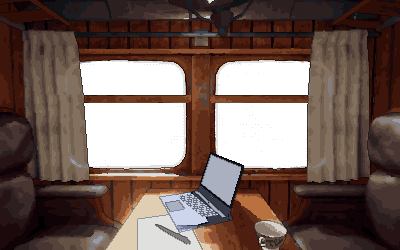
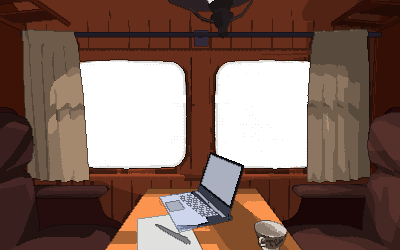
雪国线 pixel ride, clean like common pixel art: walls, seats, curtains and table are one flat colour each, shaded in a few steps by the light of a flat-colour render (texture dirt, dusty patterns and the leather's greasy sheen gone); plank seams kept as clean lines; the grey smudge on the centre post p
Claude-Session: https://claude.ai/code/session_01ScX6WKwjvGxQ2unMJchHBc

diff --git a/tools/pixelate.py b/tools/pixelate.py
@@ -11,14 +11,16 @@ lo = lambda f: Image.open(f).convert("RGBA").resize((W, H), Image.BOX)
 sun, sh = lo(f"{A}/cabin-day.webp"), lo(f"{A}/cabin-day-shade.webp")
 wood = Image.open(f"{A}/3d/snow_forest.jpg").convert("RGB"); wood = wood.resize((int(wood.width * 190 / wood.height), 190), Image.BOX)
 code = np.asarray(Image.open(os.path.join(R, "tools", "cabin-id.png")).convert("RGB")).astype(np.int32) @ [65536, 256, 1]
+_g = code == 0                                                  # the window's middle rail goes: the view stays whole
+BARS = ndimage.binary_closing(_g, structure=np.ones((15, 1))) & ~_g & (code == 0x111180); code[BARS] = 0
 _lap = code == 0x881180; code[ndimage.binary_fill_holes(_lap) & ~_lap] = 0x991180   # the touchpad shows as a hole in the id render
 glass = code == 0
 # how much each part is smoothed (in pixels): props and table flat and clean, the panelling keeps its grain
 WALL, TABLE = 0x111180, 0x110080
 LAPTOP, PAD, CUP, PAPER, PEN = 0x881180, 0x991180, 0x2280, 0x112280, 0x222280
 SEATS = (0x1180, 0xaa0080, 0x770080, 0xdd0080)
-sig = {TABLE: .7, LAPTOP: 0, PAD: 0, CUP: 0, PAPER: .6, PEN: 0, WALL: 0.0}
-DEFAULT = 1.1                                                    # curtains, seats, ceiling
+sig = {TABLE: 1.0, LAPTOP: 0, PAD: 0, CUP: 0, PAPER: .6, PEN: 0, WALL: 2.2}
+DEFAULT = 2.4                                                     # curtains, seats, ceiling: smooth, no dust                                                    # curtains, seats, ceiling
 
 def grade(a):
     a = np.where(a > .72, .72 + (a - .72) * .45, a)              # tame the blown-out sun on the table
@@ -106,8 +108,43 @@ yy_, xx_ = np.mgrid[0:H, 0:W]; st = (np.stack([xx_ + .5 - H0[0], yy_ + .5 - H0[1
 s_, t_ = st[..., 0], st[..., 1]
 kb = (code == LAPTOP) & (s_ > .07) & (s_ < .93) & (t_ > .12) & (t_ < .58)
 key = kb & ((s_ * 15) % 1 < .62) & (((t_ - .12) / .46 * 6) % 1 < .66)
+CURTAINS = (0x551180, 0x661180, 0x660080, 0xbb0080)
+def kposter(g, q, m, k, sat_only=False):
+    X = g[m].reshape(-1, 3); fit = X
+    if sat_only:   # cluster on the coloured wood only, so grey smudges can't keep a colour of their own
+        s = (X.max(1) - X.min(1)) / np.maximum(X.max(1), 1e-3); fit = X[s > .35] if (s > .35).sum() > k * 20 else X
+    C = np.array(sorted(fit[np.random.RandomState(2).choice(len(fit), k, replace=False)].tolist(), key=sum))
+    for _ in range(25):
+        lab = ((fit[:, None] - C[None]) ** 2).sum(-1).argmin(1); C = np.array([fit[lab == i].mean(0) if (lab == i).any() else C[i] for i in range(k)])
+    lab = ((X[:, None] - C[None]) ** 2).sum(-1).argmin(1); q[m] = (C[lab] * 255).astype(np.uint8)
+SEAMS = None
+LEVELS = np.array([.6, .78, 1.0, 1.25, 1.5])
+LIGHT_SUN = np.asarray(Image.open(os.path.join(R, "tools", "cabin-light.png")).convert("L")).astype(np.float32) / 255
+_sunlit = (f32(sun) @ [.3, .59, .11]) > (f32(sh) @ [.3, .59, .11]) * 1.25 + .04
+LIGHT_SHADE = LIGHT_SUN.copy()
+for _v in np.unique(code):                                       # without the sun: sunlit pixels fall back to the part's own shade level
+    _m = code == _v; _s = _m & ~_sunlit
+    if _s.sum() > 10: LIGHT_SHADE[_m & _sunlit] = np.median(LIGHT_SUN[_s])
+def band(g, q, m, v):
+    """one flat colour per part, shaded in a few clean steps by the light only (the texture's dirt is low-passed away)"""
+    if m.sum() < 30: return
+    X = g[m]; s = (X.max(1) - X.min(1)) / np.maximum(X.max(1), 1e-3)
+    base_c = np.median((X[s > .3] if v == WALL and (s > .3).sum() > 50 else X)[~_sunlit[m][(s > .3) if v == WALL and (s > .3).sum() > 50 else slice(None)]] if False else (X[s > .3] if v == WALL and (s > .3).sum() > 50 else X), 0)
+    if v == WALL: base_c = base_c * 1.25
+    if v in SEATS: base_c = base_c * np.array([1.08, 1.0, .9])   # wood colour, never the grey smudge
+    L = LIGHT_SUN if lit else LIGHT_SHADE                        # shading from a flat-colour render: light and form only, no texture dirt
+    r = L[m] / max(np.median(LIGHT_SHADE[m]), 1e-3); r = LEVELS[np.abs(r[:, None] - LEVELS[None]).argmin(1)]
+    q[m] = (np.clip(base_c[None] * r[:, None], 0, 1) * 255).astype(np.uint8)
 def px(g):
+    global SEAMS
     q = poster(g, quant(g))
+    big = ~glass & ~np.isin(code, PROPS + (PAPER, PAD))
+    for v in np.unique(code[big]): band(g, q, code == v, v)
+    wall = code == WALL
+    if SEAMS is None:   # the plank seams: thin dark lines in the unsmoothed still, kept as one clean wood-dark line
+        l = f32(sh) @ [.3, .59, .11]; d = l - ndimage.uniform_filter(l, 7)
+        SEAMS = wall & (d < -.035); SEAMS = ndimage.binary_opening(SEAMS, structure=np.ones((5, 1)))
+    q[SEAMS] = (q[SEAMS].astype(np.float32) * .62).astype(np.uint8)
     q[kb] = (104, 110, 128); q[key] = (196, 202, 218); q[code == PAD] = (170, 176, 192)
     q = despeck(q, ~glass & ~np.isin(code, PROPS)).astype(np.float32)
     q = despeck(q.astype(np.uint8), np.isin(code, PROPS), n=2).astype(np.float32)
@@ -118,8 +155,8 @@ def px(g):
 yy, xx = np.mgrid[0:H, 0:W]
 a = np.asarray(sun)[..., 3]                                          # the snow on the glass is kept from the render
 frost = (a > 70) & (a <= 110) & (xx % 3 == 0) & (yy % 3 == 1)
-alpha = np.where(glass, np.where(a > 110, 255, np.where(frost, 200, 0)), 255).astype(np.uint8)
-for g, name in [(g_sun, "cabin-day-px.png"), (g_sh, "cabin-day-shade-px.png")]:
+alpha = np.where(glass, np.where(BARS, np.where(frost, 200, 0), np.where(a > 110, 255, np.where(frost, 200, 0))), 255).astype(np.uint8)
+for g, name, lit in [(g_sun, "cabin-day-px.png", True), (g_sh, "cabin-day-shade-px.png", False)]:
     Image.fromarray(np.dstack([px(g), alpha]), "RGBA").save(f"{A}/{name}", optimize=True)
 qw = np.asarray(Image.fromarray((g_wood * 255).astype(np.uint8)).quantize(palette=pal, dither=Image.Dither.NONE).convert("RGB"))
 Image.fromarray(qw).save(f"{A}/snow-forest-px.png", optimize=True)
